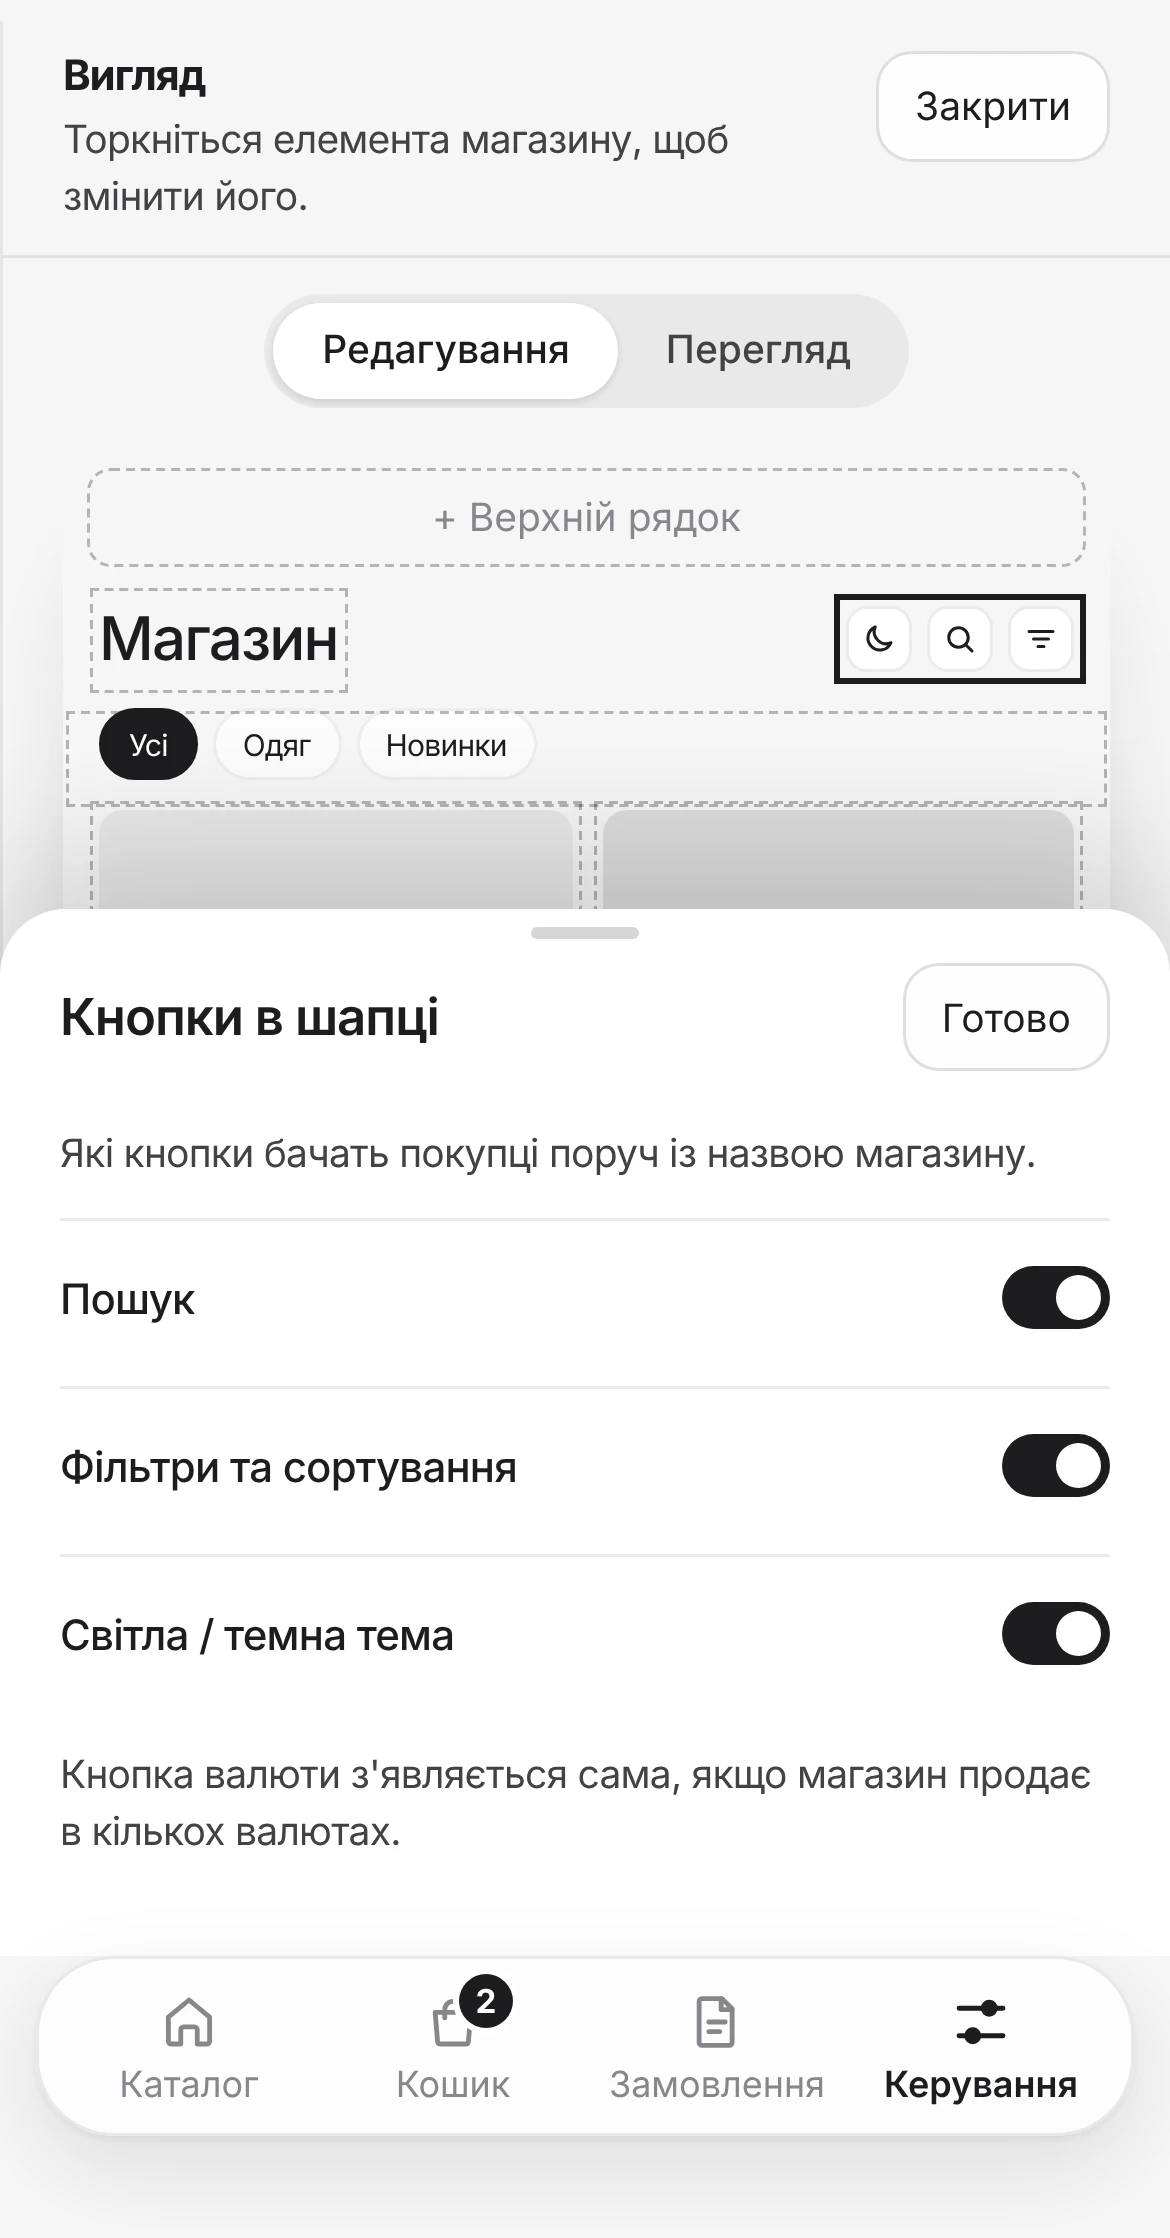
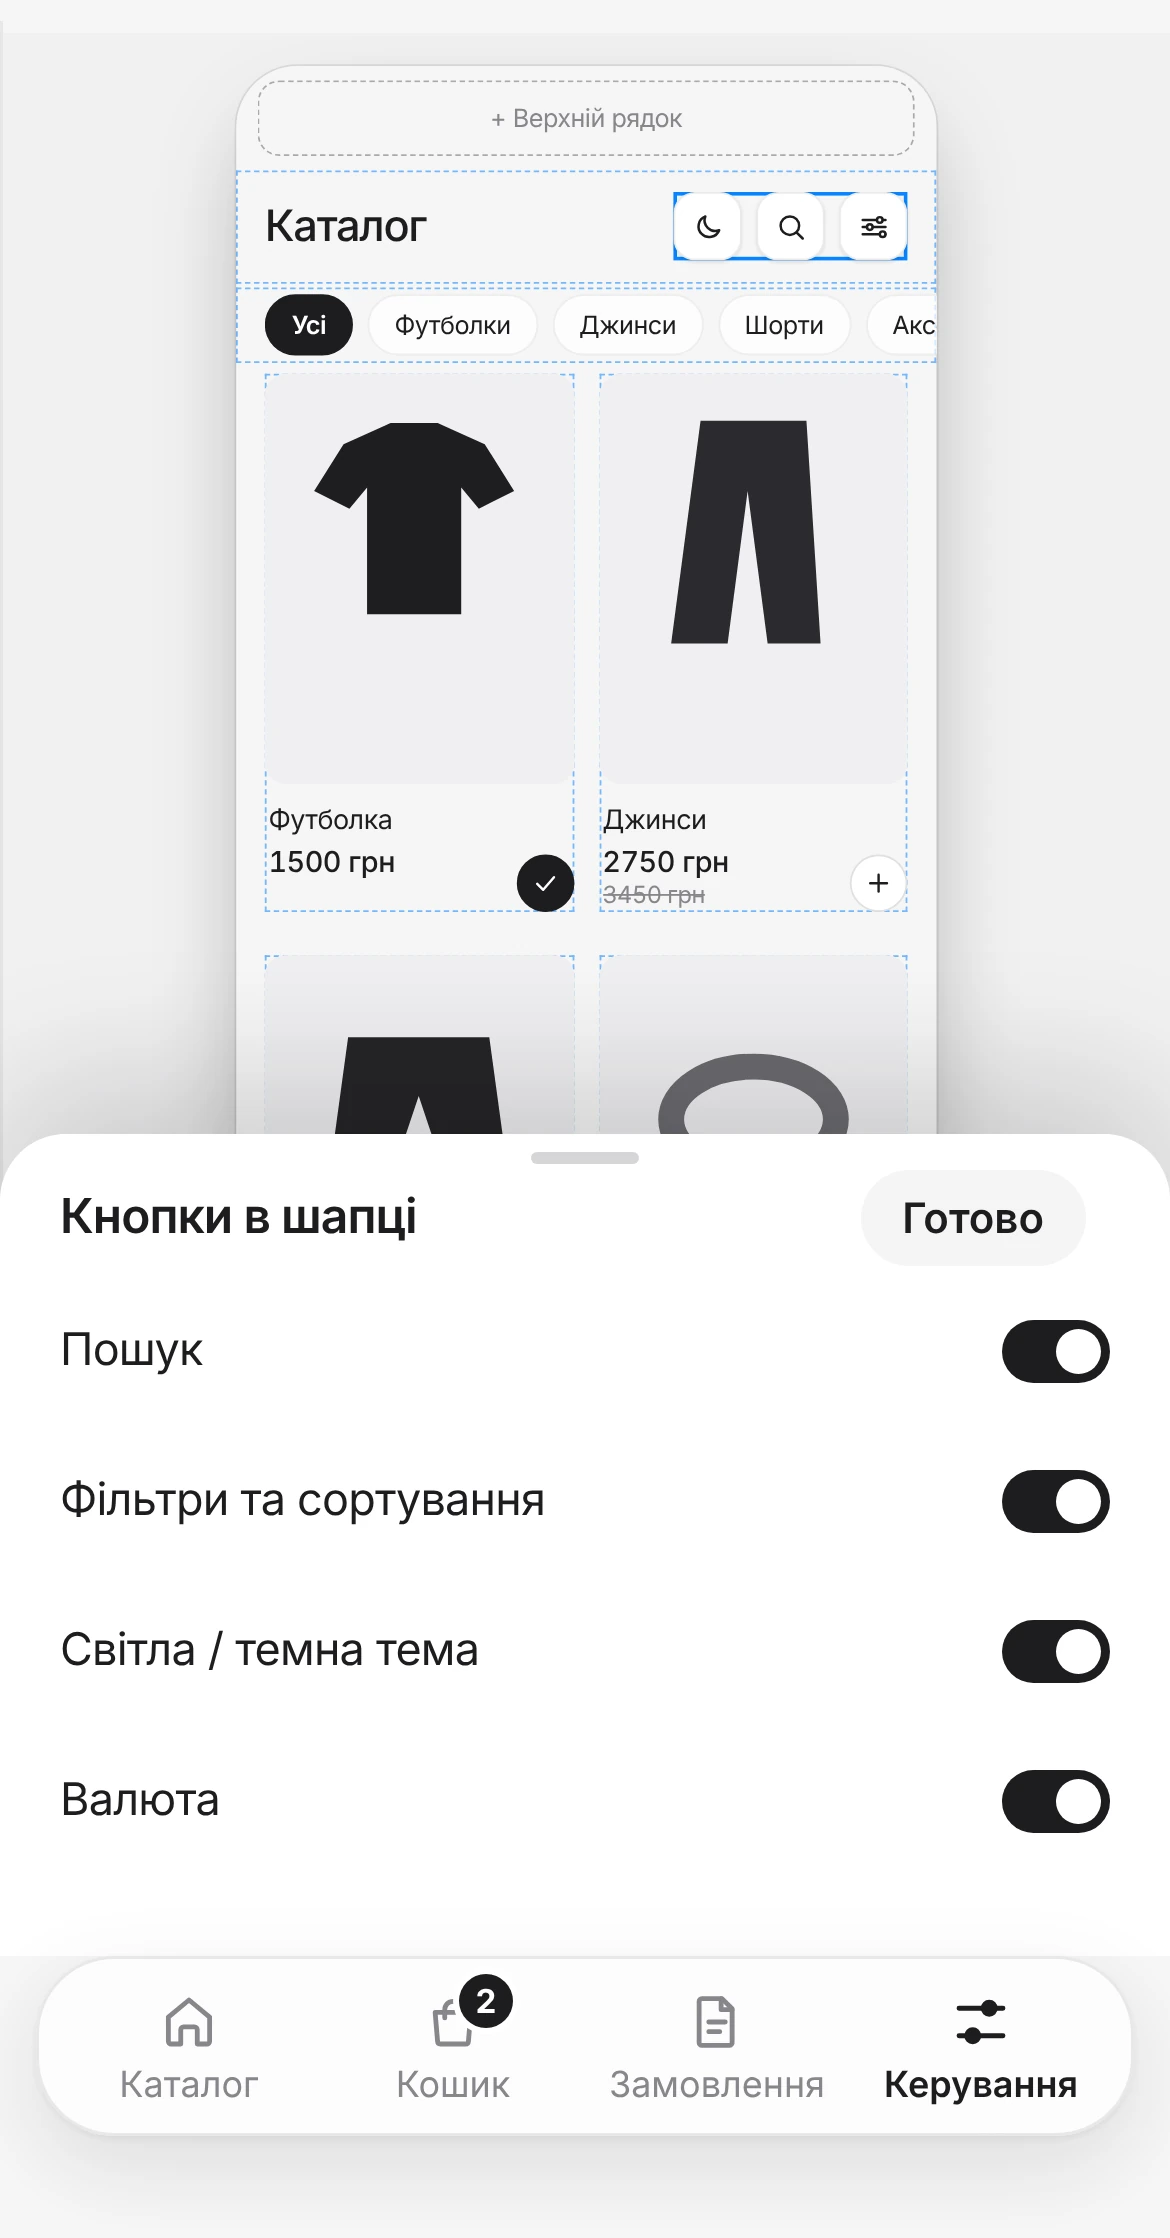
Docs: Вигляд with the floating tools, templates and colour picker
- owner-guide: the tools dock (Шаблон, Шрифт, Кольори, Фон, Додати),
  template gallery with Category Menu and category tiles, colour picker
  and pipette, free placement of banner text with Як у шаблоні, the save
  bar that appears only with changes, the desktop side panel.
- quick-start step 7 points at the dock.
- New shots appearance-templates and appearance-colors; appearance and
  appearance-edit regenerated from the live-shop editor.
- platform-facts and the shots README updated; docshots patch rebased.

Claude-Session: https://claude.ai/code/session_01Tv2wQGZTVvFh9Ve4QWyixy

diff --git a/docs/_internal/platform-facts.md b/docs/_internal/platform-facts.md
@@ -161,18 +161,22 @@
 - `Доставка` → **Нова пошта**
 - `Вигляд` → картки немає: чип одразу відкриває редактор вигляду
 
-### Редактор «Вигляд» (конструктор, з 2026-10)
+### Редактор «Вигляд» (конструктор, оновлено 2026-11-03)
 
-Джерело: `backend/webapp/admin_products/index.html` (`#appearanceDrawer`) і `main.js` (`AP_SHEET_TITLES`, `AP_OPTIONAL`).
+Джерело: `backend/webapp/admin_products/index.html` (`#appearanceDrawer`, `.ap-dock`) і `main.js` (`AP_SHEET_TITLES`, `AP_OPTIONAL`, `renderTemplateGallery`, `syncThemeDirtyState`).
 
-- Угорі перемикач `Редагування` / `Перегляд`; кнопки `Закрити`, внизу `Скасувати` і `Зберегти зміни`.
-- Макет магазину: дотик до елемента відкриває знизу панель з кнопкою `Готово`.
-- Назви панелей: `Шаблон магазину`, `Верхній рядок`, `Банер у шапці`, `Кнопки в шапці`, `Категорії`, `Фон каталогу`, `Шрифт і текст`, `Кольори й кнопки`, `Картки товарів`, `Додати елемент`; банер шаблону відкриває панель з назвою свого слоту (наприклад «Банер на весь екран»).
-- Кнопки під макетом: `Шаблон`, `Шрифт`, `Кольори й кнопки`, `Фон`, `+ Додати елемент`.
-- `Кнопки в шапці`: перемикачі `Пошук`, `Фільтри та сортування`, `Світла / темна тема` (поля теми `show_search`, `show_filters`, `show_theme_toggle`, за замовчуванням увімкнені).
-- Кнопки видалення в панелях: `Прибрати з магазину` (верхній рядок), `Вимкнути банер у шапці`.
-- Вимкнений верхній рядок на макеті: заготовка `+ Верхній рядок`.
-- Нижнє меню на макеті не змінюється (дотик показує підказку).
+- Угорі `Закрити` і перемикач `Редагування` / `Перегляд` (`Перегляд` ховає рамки, заготовки й панель інструментів).
+- Магазин показано наживо (вітрина в рамці). Дотик до елемента відкриває знизу панель (на ≥900px праворуч) з кнопками `Готово` і `Зберегти` (`Зберегти` лише коли є зміни). Поки панель відкрита, магазин на телефоні стискається над нею.
+- Плаваюча панель інструментів над низом магазину: `Шаблон`, `Шрифт`, `Кольори`, `Фон`, `Додати` (aria-label «Додати елемент»). Ховається при гортанні магазину, повертається після зупинки. На телефоні ховається, поки відкрита панель налаштувань.
+- Назви панелей: `Шаблон магазину`, `Блок шаблону`, `Верхній рядок`, `Банер у шапці`, `Кнопки в шапці`, `Категорії`, `Фон каталогу`, `Шрифт і текст`, `Кольори й кнопки`, `Картки товарів`, `Додати елемент`; банер шаблону відкриває панель з назвою свого слоту.
+- `Кнопки в шапці`: перемикачі `Пошук`, `Фільтри та сортування`, `Світла / темна тема`, `Валюта` (поля `show_search`, `show_filters`, `show_theme_toggle`, `show_currency`; `Валюта` видно, коли магазин приймає кілька валют).
+- Кнопки видалення: `Прибрати з магазину`, для банера в шапці `Вимкнути банер у шапці`. Після прибирання підказка «… прибрано. Повернути можна через «Додати» внизу.».
+- Вимкнений верхній рядок у редакторі: заготовка `+ Верхній рядок`.
+- Текст і кнопка банера шаблону перетягуються в будь-яке місце (поля `text_xy`, `cta_xy`). У панелі банера: `Ваше розташування` / `Як у шаблоні`, підказка «Перетягніть заголовок або кнопку на банері в будь-яке місце.», кнопка-посилання `Як у шаблоні` скидає.
+- Кольори: кружечок відкриває вибір (поле відтінку + смужка), поле коду, піпетка «Піпетка: взяти колір з магазину». Підказки: «Торкніться кольору в магазині», «Колір #XXXXXX узято.». Готової палітри кольорів більше немає.
+- Збереження: смуга внизу лише коли є зміни: `Є незбережені зміни`, `Скасувати`, `Зберегти зміни`.
+- Шаблони (`backend/app/application/store_templates.py`): галерея гортається вбік (на ≥900px сітка з 3 колонок), картка = мініатюра + назва, під рядком назва, опис і риси обраного. Недоступний шаблон підписано `Тариф …`. Тарифи: 1 / 3 / 10 шаблонів. Назви: `Classic`, `Minimal`, `Grid Focus`, `Full Screen`, `Split Hero`, `Video Hero`, `Editorial`, `Carousel`, `Masonry`, `Category Menu` (колишній Sidebar). У `Grid Focus` і `Category Menu` плитки/меню категорій замінюють рядок категорій (з плиткою `Усі`).
+- Нижнє меню в редакторі не змінюється (дотик показує підказку).
 - `Команда` → **Адміни магазину**
 - `Контент` → **Тексти магазину**, **Кнопки та назви**
 

diff --git a/docs/assets/shots/README.md b/docs/assets/shots/README.md
@@ -44,7 +44,7 @@ python tools/export_shots.py <шлях до insomnia.workshop>/tools/webapp-harn
 | `payments-currency` | Валюти магазину (сценарій у `tools/docshots-harness.patch`) | payments |
 | `settings-delivery` | Екран `Підключення Нової пошти` | quick-start, nova-poshta |
 | `delivery-list`, `delivery-service`, `delivery-countries` | Екран `Доставка`, екран служби й екран `Країни доставки` (сценарії в `tools/docshots-harness.patch`) | owner-guide |
-| `appearance`, `appearance-edit` | Редактор вигляду: макет магазину і відкрита панель `Кнопки в шапці` | quick-start, owner-guide |
+| `appearance`, `appearance-edit`, `appearance-templates`, `appearance-colors` | Редактор вигляду: магазин з панеллю інструментів, панелі `Кнопки в шапці`, `Шаблон магазину`, `Кольори й кнопки` з вибором кольору | quick-start, owner-guide |
 | `promos`, `campaigns`, `analytics`, `customers` | Інструменти зростання | index, owner-guide |
 | `settings-all`, `shell-orders` | Генеруються сценарієм, поки ніде не використані | — |
 

diff --git a/docs/quick-start.md b/docs/quick-start.md
@@ -174,7 +174,7 @@ icon: ph/rocket-launch
 
 <p class="c-path" markdown="span">`Керування` → `Налаштування` → `Вигляд`</p>
 
-На екрані ваш магазин. Торкніться `Шаблон` під ним, щоб обрати структуру головної, потім торкайтеся банера, назви чи кнопок на макеті, щоб змінити їх. Збережіть кнопкою `Зберегти зміни`.
+На екрані ваш магазин. Торкніться `Шаблон` на панелі внизу, щоб обрати структуру головної. Потім торкайтеся банера, назви чи кнопок у самому магазині, щоб змінити їх. Збережіть кнопкою `Зберегти зміни`.
 
 Найбільше на враження впливають якісні фото товарів і зрозумілий логотип. З них і почніть.
 
